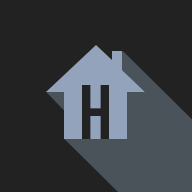
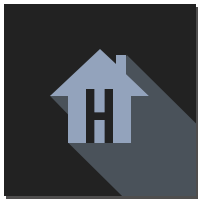
Saturday 10th week

diff --git a/src/components/add-ivn-item/add-ivn-item.ts b/src/components/add-ivn-item/add-ivn-item.ts
@@ -3,7 +3,7 @@ import { ViewController } from 'ionic-angular';
 import { StatusBar } from '@ionic-native/status-bar';
 
 import { InventoryItem } from '../../models/inventory-item.interface';
-
+import { LocalNotifications } from '@ionic-native/local-notifications';
 import { AngularFireDatabase } from 'angularfire2/database';
 import { AngularFireList } from 'angularfire2/database';
 import { DatabaseProvider } from '../../providers/database/database';
@@ -20,7 +20,8 @@ export class AddIvnItemComponent {
   constructor(public viewCtrl: ViewController,
               private db: AngularFireDatabase,
               private dbProv: DatabaseProvider,
-              private statusBar: StatusBar) {
+              private statusBar: StatusBar,
+              public localNotifications: LocalNotifications,) {
     this.addItemRef$ = this.db.list(`inventory-lists/${dbProv.currentUser.householdKey}`);
     this.inventoryItem.expDate = 'hello';
   }
@@ -31,18 +32,45 @@ export class AddIvnItemComponent {
   //   }
 
 
+  // this.localNotifications.schedule({
+  //    text: 'Delayed ILocalNotification',
+  //    at: new Date(new Date().getTime() + 3600),
+  //    led: 'FF0000',
+  //    sound: null
+  // });
+
+
   addItem() {
     var d = new Date(); //create new date object
     var daysLeft_int = parseInt(this.inventoryItem.weeksLeft);
     var date_toStore = d.setDate(d.getDate() + daysLeft_int);
 
     console.log(d);
+    var month = d.getUTCMonth() + 1; //months from 1-12
+    var day = d.getUTCDate();
+    var year = d.getUTCFullYear();
+
+    var newdate = month + "/" + day + "/" + year;
     //console.log(date_toStore); //this was used for testing
+
+    var nDate = new Date();
+    nDate.setDate(d.getDate());
+    nDate.setHours(5);
+    nDate.setMinutes(20);
+    nDate.setSeconds(0);
+    console.log(nDate);
 
     this.addItemRef$.push({
       name: this.inventoryItem.name,
-      weeksLeft: (date_toStore!=null ? date_toStore.toString() : '')
+      // weeksLeft: (date_toStore!=null ? date_toStore.toString() : '')
+      weeksLeft: (date_toStore!=null ? newdate.toString() : '')
 
+      });
+      this.localNotifications.schedule({
+         text: this.inventoryItem.name + ' is expiring today',
+         at: nDate,
+         led: 'FF0000',
+         sound: null
       //weeksLeft: (this.inventoryItem.weeksLeft!=null ? this.inventoryItem.weeksLeft : '')
     });
 

diff --git a/src/pages/login/login.ts b/src/pages/login/login.ts
@@ -5,6 +5,7 @@ import { RegisterPage } from '../register/register';
 import { AngularFireAuth } from 'angularfire2/auth';
 import { Observable } from 'rxjs/Observable';
 import { DatabaseProvider } from '../../providers/database/database';
+import { StatusBar } from '@ionic-native/status-bar';
 
 @IonicPage()
 @Component({
@@ -20,7 +21,8 @@ export class LoginPage {
               public navParams: NavParams,
               public afAuth: AngularFireAuth,
               public alertCtrl: AlertController,
-              public dbProv: DatabaseProvider) {
+              public dbProv: DatabaseProvider,
+              private statusBar: StatusBar) {
 
   }
 

diff --git a/src/components/edit-inv-item/edit-inv-item.html b/src/components/edit-inv-item/edit-inv-item.html
@@ -29,12 +29,12 @@
   </ion-list> -->
 
   <ion-item>
-    <ion-input  clearInput [(ngModel)]="inventoryItem.name"></ion-input>
+    <ion-input clearInput [(ngModel)]="inventoryItem.name"></ion-input>
 
   </ion-item>
 
   <ion-item>
-    <ion-input placeholder="Number of weeks left" clearInput [(ngModel)]="inventoryItem.weeksLeft"></ion-input>
+    <ion-input placeholder="Number of days left" clearInput [(ngModel)]="inventoryItem.weeksLeft"></ion-input>
     <!-- <ion-label>Expiration Date</ion-label>
     <ion-datetime displayFormat="MM DD">
     </ion-datetime> -->

diff --git a/src/pages/home/home.html b/src/pages/home/home.html
@@ -33,11 +33,11 @@
     <!-- <ion-card-header>
       {{ item.name }}
     </ion-card-header> -->
-    <ion-card-content (click)="showAlert();//deleteNote(note.key)">
+    <ion-card-content >
       {{ note.text }}
 
       <!-- style="position:absolute;right:8px;bottom:-3px;" -->
-      <button ion-button block color="dark" (click)="deleteNote(note.key)" >
+      <button ion-button block color="dark" >
         <ion-icon name="clipboard"></ion-icon>
       </button>
       <button ion-button block color="HHred"  (click)="deleteNote(note.key)" >

diff --git a/src/pages/home/home.ts b/src/pages/home/home.ts
@@ -16,6 +16,7 @@ export class HomePage {
 
   // keeps track of whether the fab is clicked
   fabOpened: boolean = false;
+  buttonClick: boolean = false;
 
   notesRef: AngularFireList<any>
   notes: Observable<any[]>
@@ -50,10 +51,10 @@ export class HomePage {
     });
   }
 
-  showAlert() {
+  showAlert(text) {
     let alert = this.alertCtrl.create({
-      title: 'Card deleted',
-      //subTitle: '',
+      //title: text,
+      subTitle: text,
       buttons: ['OK']
     });
     alert.present();

diff --git a/src/components/add-ivn-item/add-ivn-item.html b/src/components/add-ivn-item/add-ivn-item.html
@@ -34,7 +34,7 @@
   </ion-item>
 
   <ion-item>
-    <ion-input placeholder="Number of weeks left" clearInput [(ngModel)]="inventoryItem.weeksLeft"></ion-input>
+    <ion-input placeholder="Number of days left" clearInput [(ngModel)]="inventoryItem.weeksLeft"></ion-input>
     <!-- <ion-label>Expiration Date</ion-label>
     <ion-datetime displayFormat="MM DD">
     </ion-datetime> -->

diff --git a/src/pages/inventory/inventory.ts b/src/pages/inventory/inventory.ts
@@ -77,7 +77,7 @@ ionViewDidLoad()
  showAlert() {
      let alert = this.alertCtrl.create({
        title: 'Adding new tab',
-       subTitle: 'Please fill  up your current inventory before adding a new tab',
+       subTitle: 'Please fill up your current inventory before adding a new tab',
        buttons: ['OK']
      });
      alert.present();

diff --git a/src/pages/inventory/inventory.html b/src/pages/inventory/inventory.html
@@ -39,7 +39,7 @@
           document.getElementById('Days').innerHTML = 'HI';
           </script>
           CHECK SCRIPT -->
-          {{item.weeksLeft}} weeks/days left
+          Expires on {{item.weeksLeft}} 
         </h2>
         <!-- <hr style="clear:both;"/> -->
 

diff --git a/src/theme/variables.scss b/src/theme/variables.scss
@@ -34,7 +34,7 @@ $background-color: #4A525A;
 // The "primary" color is the only required color in the map.
 
 $colors: (
-  primary:    #4A525A,
+  primary:    #222,
   secondary:  #93A3BC,
   danger:     #f53d3d,
   light:      #f4f4f4,
